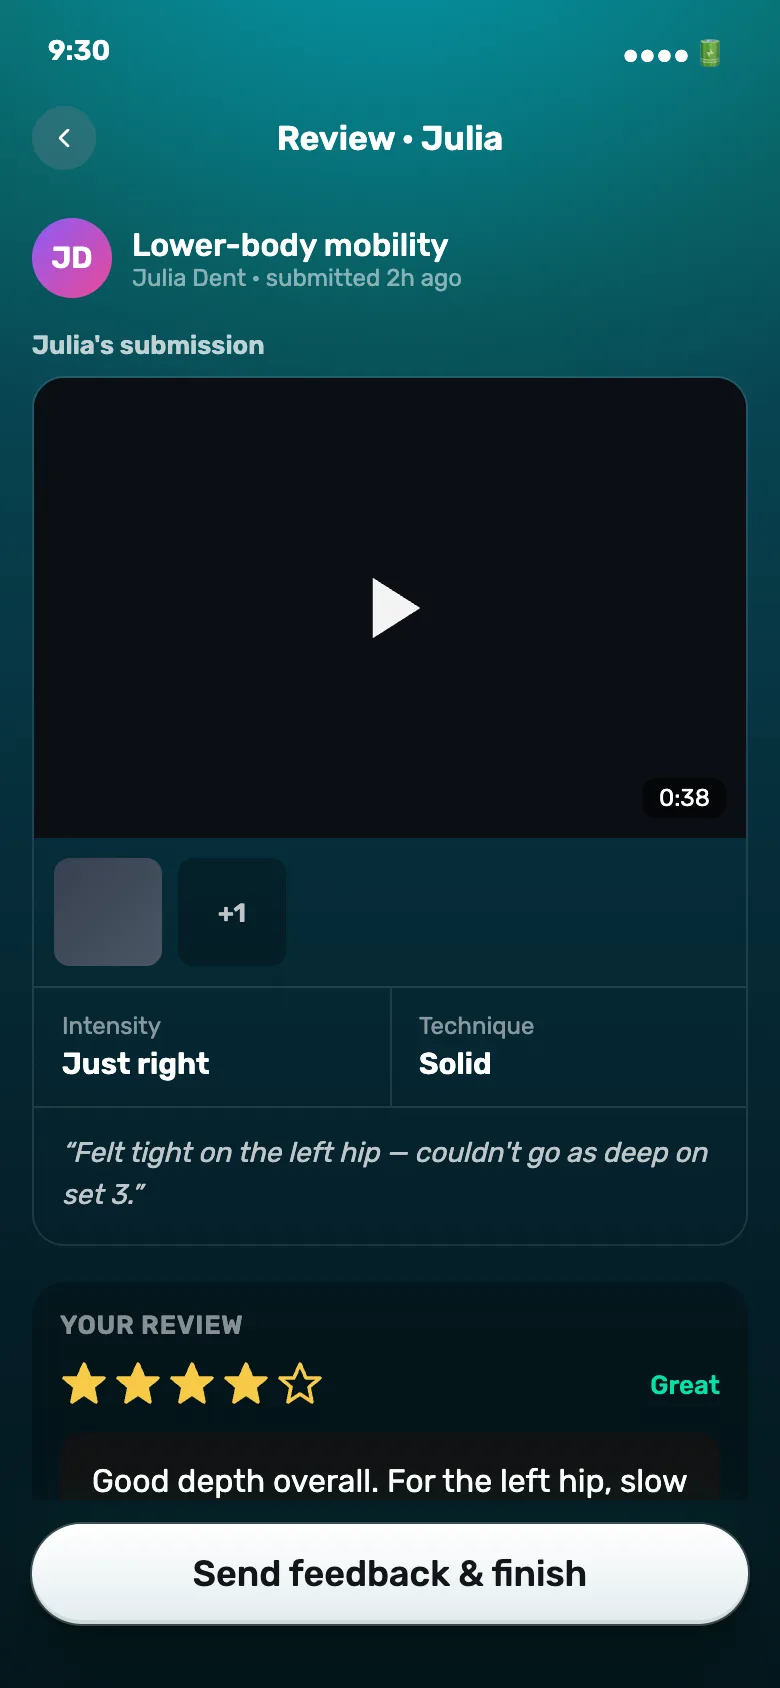
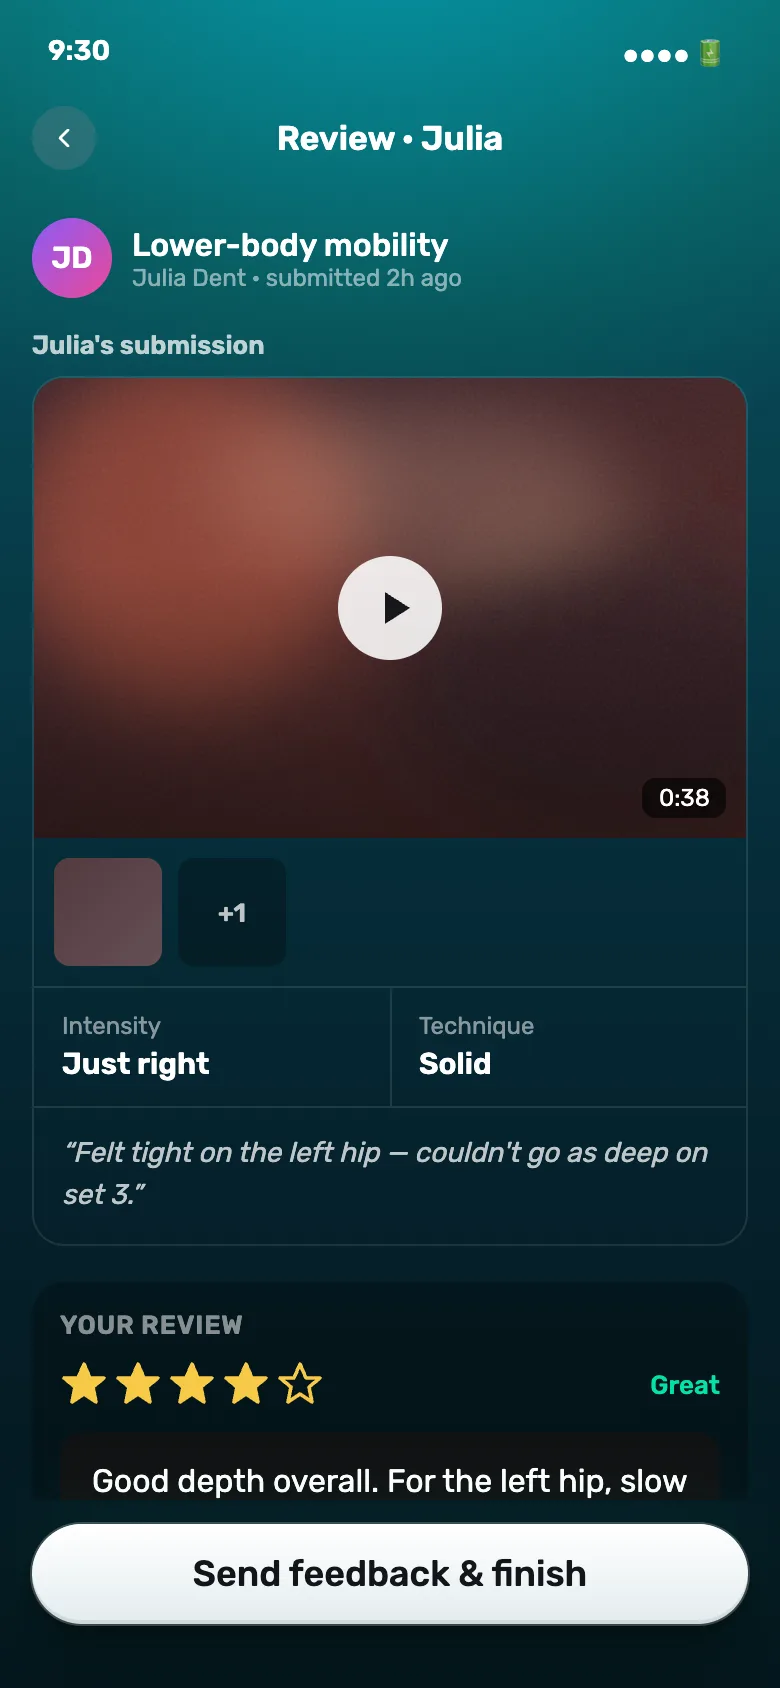
prototypes: self-paced review copy — clip is a poster with the play plate, not a black box

Changed region(s): [[0.0308, 0.2156, 0.9538, 0.5853]]

diff --git a/prototypes/board/board-data.js b/prototypes/board/board-data.js
@@ -3901,7 +3901,7 @@ window.FIT_BOARD = {
       "screens": [
         {
           "id": "s-draft-client",
-          "hash": "da16b693c5d4",
+          "hash": "c36fcfb77c6a",
           "title": "J · Client Detail, placed",
           "inApp": "",
           "status": "proposal",
@@ -3948,7 +3948,7 @@ window.FIT_BOARD = {
         },
         {
           "id": "s-draft-owed",
-          "hash": "3a858a26cbac",
+          "hash": "ed075b0bf7ae",
           "title": "↳ Owed (push)",
           "inApp": "Owed",
           "status": "proposal",
@@ -3967,7 +3967,7 @@ window.FIT_BOARD = {
         },
         {
           "id": "s-draft-selfpaced",
-          "hash": "81434e14b77b",
+          "hash": "8b0896f87fc2",
           "title": "↳ Self-paced",
           "inApp": "Anna’s self-paced",
           "status": "proposal",
@@ -3996,7 +3996,7 @@ window.FIT_BOARD = {
         },
         {
           "id": "s-draft-packages",
-          "hash": "f063214d07de",
+          "hash": "9c728d2276fb",
           "title": "↳ Packages",
           "inApp": "Anna’s packages",
           "status": "proposal",
@@ -4015,7 +4015,7 @@ window.FIT_BOARD = {
         },
         {
           "id": "s-client-selfpaced",
-          "hash": "5b6f57d739aa",
+          "hash": "40a857c8eec1",
           "title": "↳ canon copy",
           "inApp": "Self-paced",
           "status": "proposal",
@@ -4036,7 +4036,7 @@ window.FIT_BOARD = {
         },
         {
           "id": "s-pkg-detail",
-          "hash": "15f3e37f07f1",
+          "hash": "36593551fe04",
           "title": "↳ Package detail",
           "inApp": "Package",
           "status": "proposal",
@@ -4056,7 +4056,7 @@ window.FIT_BOARD = {
         },
         {
           "id": "s-pkg-history",
-          "hash": "e1cdd29a8ef7",
+          "hash": "9a2783ad120b",
           "title": "↳ Package history",
           "inApp": "Activity",
           "status": "proposal",
@@ -4076,7 +4076,7 @@ window.FIT_BOARD = {
         },
         {
           "id": "s-crm-addr-pick",
-          "hash": "10e0ba779728",
+          "hash": "e6f96a1e4b4c",
           "title": "↳ Addresses",
           "inApp": "",
           "status": "proposal",
@@ -4095,7 +4095,7 @@ window.FIT_BOARD = {
         },
         {
           "id": "s-crm-addr-form",
-          "hash": "fe366b11b011",
+          "hash": "6bc45e615343",
           "title": "↳ Address form",
           "inApp": "Home address",
           "status": "proposal",
@@ -4114,7 +4114,7 @@ window.FIT_BOARD = {
         },
         {
           "id": "s-client-notes-editor",
-          "hash": "bc17d29f42bf",
+          "hash": "be668b672815",
           "title": "↳ Note",
           "inApp": "",
           "status": "proposal",
@@ -4133,7 +4133,7 @@ window.FIT_BOARD = {
         },
         {
           "id": "s-client-history",
-          "hash": "91b9ad6e9e90",
+          "hash": "db74b688190c",
           "title": "↳ History",
           "inApp": "Anna’s history",
           "status": "proposal",
@@ -4152,7 +4152,7 @@ window.FIT_BOARD = {
         },
         {
           "id": "s-create-client",
-          "hash": "bbaf26ef821b",
+          "hash": "173c19d7bb14",
           "title": "↳ Edit info",
           "inApp": "New client",
           "status": "proposal",
@@ -4171,7 +4171,7 @@ window.FIT_BOARD = {
         },
         {
           "id": "s-add-to-group",
-          "hash": "53def9df9405",
+          "hash": "b8f9bb62f079",
           "title": "↳ Groups",
           "inApp": "Anna’s groups",
           "status": "proposal",
@@ -4190,7 +4190,7 @@ window.FIT_BOARD = {
         },
         {
           "id": "s-thread",
-          "hash": "3361b2a23725",
+          "hash": "1b2a0253a7ed",
           "title": "↳ Message",
           "inApp": "John Miller",
           "status": "proposal",
@@ -4211,7 +4211,7 @@ window.FIT_BOARD = {
         },
         {
           "id": "s-review",
-          "hash": "030052a381e3",
+          "hash": "e84f0c9c441c",
           "title": "↳ Self-paced · review clips",
           "inApp": "Review · Julia",
           "status": "proposal",
@@ -4232,7 +4232,7 @@ window.FIT_BOARD = {
         },
         {
           "id": "s-setup",
-          "hash": "4a18936734eb",
+          "hash": "af095f894f17",
           "title": "↳ Self-paced · setup",
           "inApp": "Set up for Anna",
           "status": "proposal",
@@ -4255,7 +4255,7 @@ window.FIT_BOARD = {
         },
         {
           "id": "s-invite-select",
-          "hash": "32a154725166",
+          "hash": "d617279276c1",
           "title": "↳ Book · session",
           "inApp": "Select training",
           "status": "proposal",
@@ -4276,7 +4276,7 @@ window.FIT_BOARD = {
         },
         {
           "id": "s-invite-time",
-          "hash": "80b92c638dd2",
+          "hash": "839004078552",
           "title": "↳ Book · time",
           "inApp": "",
           "status": "proposal",
@@ -4296,7 +4296,7 @@ window.FIT_BOARD = {
         },
         {
           "id": "s-schedule-review",
-          "hash": "368ed032731c",
+          "hash": "11ebe17aadc0",
           "title": "↳ Book · review",
           "inApp": "Review request",
           "status": "proposal",

diff --git a/prototypes/flows/coach/client-detail-drafts.html b/prototypes/flows/coach/client-detail-drafts.html
@@ -742,7 +742,12 @@
 .src-sp .plf-exvis .play { position: relative; width: 46px; height: 46px; opacity: 0.92; }
 .src-sp .sb-media .play { position: relative; width: 44px; height: 44px; opacity: 0.95; }
 .src-sp .rv-card { margin: 0 16px; border: 1px solid var(--fit-divider); border-radius: 16px; overflow: hidden; }
-.src-sp .rv-clip-hero { position: relative; height: 230px; background: #0b0f14; display: flex; align-items: center; justify-content: center; }
+.src-sp .rv-clip-hero { position: relative; height: 230px; background: var(--cd-img-gym) center/cover no-repeat; display: flex; align-items: center; justify-content: center; }
+/* the clip is a picture, not a black box: poster frame + the same play plate as the To-review strip (rework 2026-09-15) */
+.src-sp .rv-clip-hero::before { content: ""; position: absolute; inset: 0; background: linear-gradient(180deg, transparent 40%, rgba(0,0,0,0.45)); }
+.src-sp .rv-clip-hero .play { width: 48px; height: 48px; padding: 14px 12px 14px 16px; box-sizing: border-box; border-radius: 50%; background: rgba(255,255,255,0.92); color: #12161a; fill: #12161a; stroke: #12161a; opacity: 1; position: relative; }
+.src-sp .rv-thumb { background: var(--cd-img-gym) center/cover no-repeat; filter: hue-rotate(120deg); }
+.src-sp .rv-thumb.more { background: var(--fit-surface-high); filter: none; }
 .src-sp .rv-clip-hero .play { width: 52px; height: 52px; color: #fff; opacity: 0.95; }
 .src-sp .rv-clip-hero .dur { position: absolute; right: 10px; bottom: 10px; background: rgba(0,0,0,0.6); color: #fff; font-size: 12px; padding: 3px 8px; border-radius: 7px; }
 .src-sp .rv-thumbs { display: flex; gap: 8px; padding: 10px; }
@@ -2308,7 +2313,7 @@
 
 
 <!-- ==== from shared/self-paced.html #s-review ==== -->
-<div class="src-sp fit-phone fit-dark rv-clip" id="s-review" data-status="proposal">
+<div class="src-sp fit-phone fit-dark rv-clip cd-media" id="s-review" data-status="proposal">
   <div class="fit-phone-header"><div class="fit-status-bar"><span>9:30</span><span>&#9679;&#9679;&#9679;&#9679; &#128267;</span></div>
     <div class="fit-header">
       <button class="fit-header-back" aria-label="Back" onclick="location.href='../shared/self-paced.html#s-queue'"><svg viewBox="0 0 24 24" fill="none" stroke="currentColor" stroke-width="2" stroke-linecap="round" stroke-linejoin="round"><path d="M15 18l-6-6 6-6"/></svg></button>

diff --git a/prototypes/board.html b/prototypes/board.html
@@ -309,7 +309,7 @@
 <div class="note" id="note"></div>
 <div class="hint">Scroll to pan · ⌘/Ctrl + scroll to zoom · drag the canvas · click a screen to open the live prototype · <b>\</b> screen list</div>
 
-<script src="./board/board-data.js?v=37061c18f6"></script>
+<script src="./board/board-data.js?v=785ec87589"></script>
 <script>
 // ---------------------------------------------------------------------------
 // Layout constants. Positions are computed from the graph — nothing is authored.
